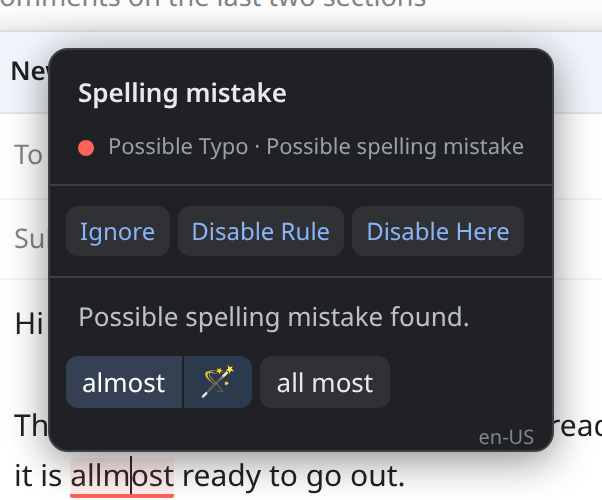
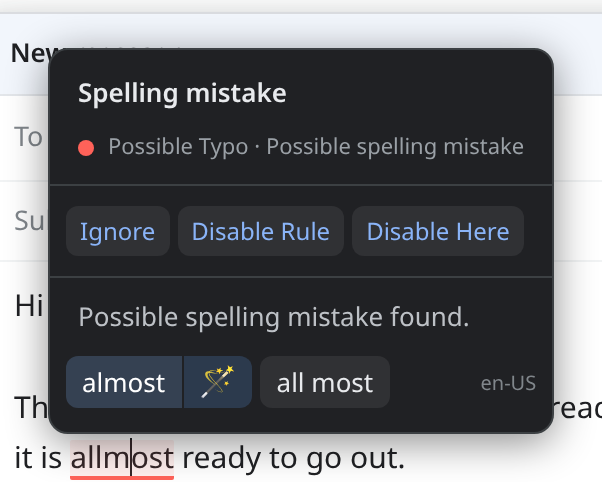
Put the language code in the suggestion row, at its right edge
Absolutely positioned in the popup corner it read as misplaced — a
stray label under the buttons. It is now the last flex item of the
suggestion row, pushed right with margin-left:auto and short enough
not to change the row's height.

diff --git a/content/popup.js b/content/popup.js
@@ -154,8 +154,9 @@ const LT = (globalThis.LT ??= {});
     // and scrolling; in practice the top suggestion is nearly always the
     // wanted one. Placed last so the corrections sit closest to the text.
     let primary = null; // the top suggestion, used as the anchor point below
+    let sugRow = null;
     if (match.replacements?.length) {
-      const list = div('lt-ext-pop-sug');
+      const list = sugRow = div('lt-ext-pop-sug');
       for (const rep of match.replacements.slice(0, 2)) {
         const value = rep.value ?? '';
         const d = describeReplacement(value);
@@ -180,16 +181,17 @@ const LT = (globalThis.LT ??= {});
       root.appendChild(list);
     }
 
-    // Which language the text was checked as, in the corner and dimmed: with
-    // language 'auto' this is the detection, and a wrong one explains an odd
-    // match better than anything else in the popup can.
+    // Which language the text was checked as, dimmed at the end of the
+    // suggestion row: with language 'auto' this is the detection, and a wrong
+    // one explains an odd match better than anything else in the popup can.
+    // It rides along with the buttons rather than taking a row of its own.
     const lang = s.language;
     if (lang?.code) {
       const el = div('lt-ext-pop-lang', lang.code);
       const detected = lang.detectedLanguage?.code;
       el.title = (lang.name || lang.code) +
         (detected && detected !== lang.code ? ' (detected ' + detected + ')' : '');
-      root.appendChild(el);
+      (sugRow || root).appendChild(el);
     }
 
     // The split-button wrapper, or null when this match can't be pinned:

diff --git a/content/styles.css b/content/styles.css
@@ -244,21 +244,21 @@
   color: #9aa0a6;
 }
 
-/* Checked-as language: parked in the bottom-right corner, out of the flow so
-   it can't stretch a row or push the suggestion buttons around. The popup
-   grows a little bottom padding to make room for it. */
+/* Checked-as language: the tail of the suggestion row, pushed to its right
+   edge. Shorter than the buttons and with no padding of its own, so it rides
+   in the row without changing its height. */
 .lt-ext-pop-lang {
-  position: absolute;
-  right: 9px;
-  bottom: 1px;
+  margin-left: auto;
+  padding-left: 6px;
   font-size: 10px;
   line-height: 12px;
   color: #80868b;
-  pointer-events: none;
 }
 
-.lt-ext-popup:has(.lt-ext-pop-lang) {
-  padding-bottom: 11px;
+/* No suggestions to ride along with — then it is a row, kept to the corner. */
+.lt-ext-popup > .lt-ext-pop-lang {
+  padding: 0 10px 4px;
+  text-align: end;
 }
 
 .lt-ext-pop-error {
